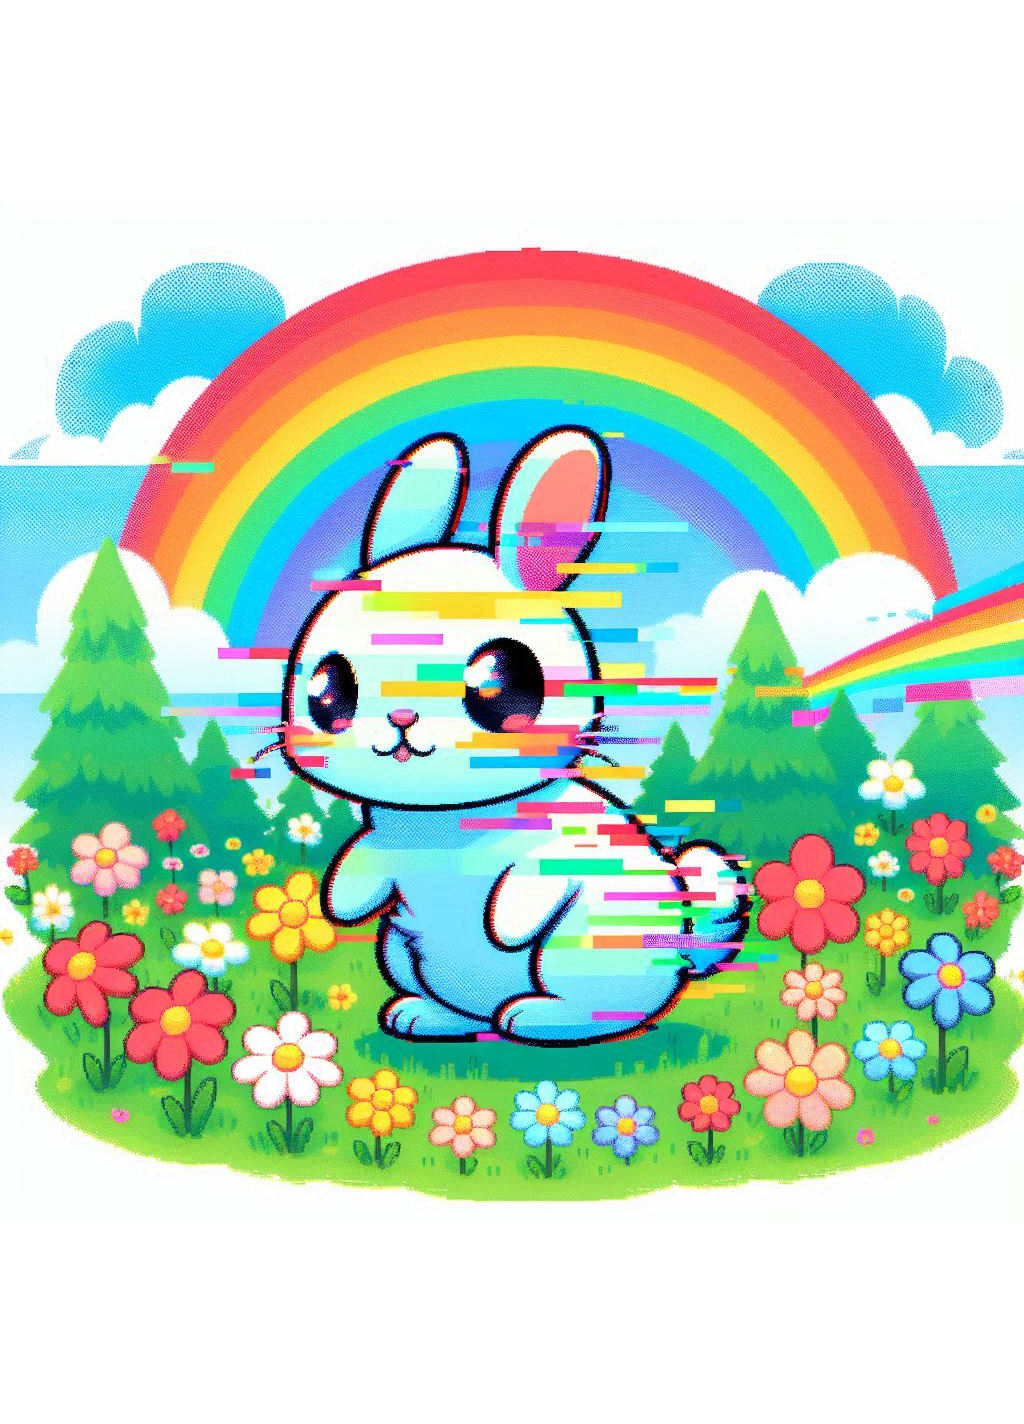
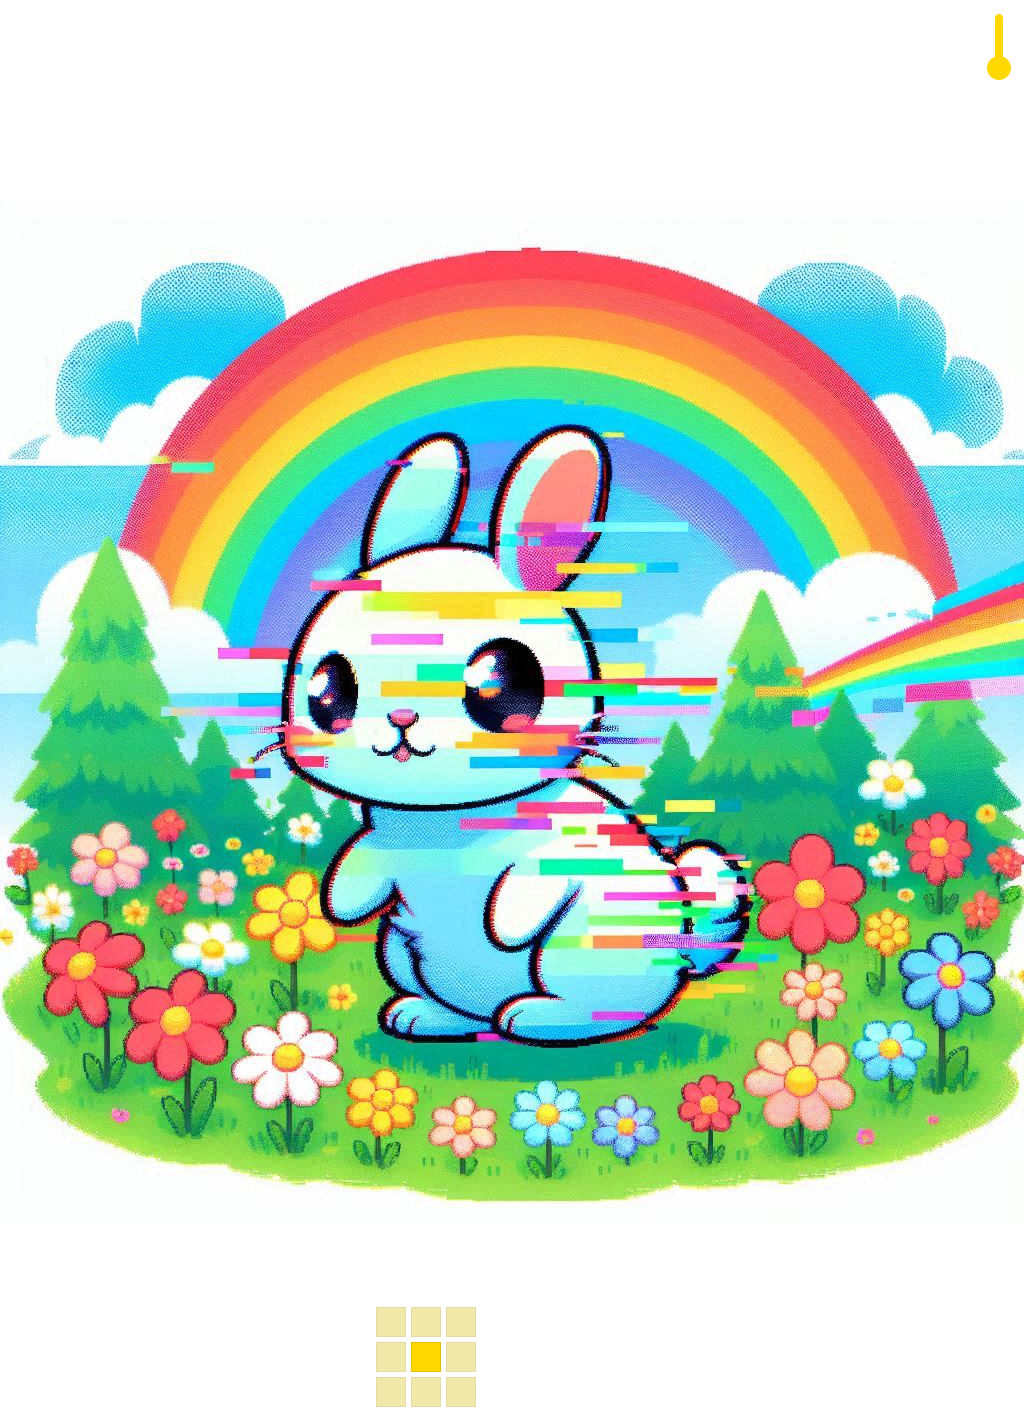
Adding bun4 and updating buns 0/1 with secret

Changed region(s): [[0.3438, 0.8961, 0.4688, 0.9888], [0.9688, 0.0, 1.0, 0.0618]]

diff --git a/golden_path/validGoldenPaths.js b/golden_path/validGoldenPaths.js
@@ -125,7 +125,7 @@ module.exports = [
         id: '????',
         path: [UP, UP_LEFT, LEFT],
         action: (gpm) => {
-            gpm.simplePuzzleManager.initiatePuzzle(puzzleEnum.BUN_0);
+            gpm.simplePuzzleManager.initiatePuzzle(puzzleEnum.BUN_1);
         },
     },
     {
@@ -144,11 +144,11 @@ module.exports = [
     /** 
      * All valid Bunny Paths
      * 
-     * Note that Bunny #1 is created from the loading bar of WitnessManager, not GPM
-     * Note that Bunny #2 is created from the SPM by clicking on the bunny in the fox maze
+     * Note that Bunny #0 is created from the loading bar of WitnessManager, not GPM
+     * Note that Bunny #1 is created from the SPM by clicking on the bunny in the fox maze
      */
     {
-        // Starts: Bunny #3
+        // Starts: Bunny #2
         // From: Fox Maze Flower Puzzle
         id: '????',
         path: [UP, RIGHT, DOWN, LEFT, DOWN, LEFT, DOWN, RIGHT, DOWN, RIGHT, UP, RIGHT, DOWN, LEFT, DOWN, LEFT, DOWN, RIGHT],
@@ -157,7 +157,7 @@ module.exports = [
         },
     },
     {
-        // Starts: Bunny #4
+        // Starts: Bunny #3
         // From: Color Page Removal Message
         id: '????',
         path: [
@@ -170,16 +170,16 @@ module.exports = [
         },
     },
     {
-        // Starts: Bunny #5
+        // Starts: Bunny #4
         // From: Hanoi Title Path
         id: '????',
         path: [RIGHT, RIGHT, RIGHT, LEFT, UP, RIGHT, DOWN, RIGHT, LEFT, UP, LEFT, UP],
         action: (gpm) => {
-            gpm.simplePuzzleManager.initiatePuzzle(puzzleEnum.BUN_0);
+            gpm.simplePuzzleManager.initiatePuzzle(puzzleEnum.BUN_4);
         },
     },
     {
-        // Starts: Bunny #6
+        // Starts: Bunny #5
         // From: Original Golden Path
         id: 'ef361c8dc6409be689ea3bd26d6943152f615823',
         path: [
@@ -289,7 +289,7 @@ module.exports = [
         },
     },
     {
-        // Starts: Bunny #7
+        // Starts: Bunny #6
         // From: Color Page Border Dots
         id: '????',
         path: [DOWN, LEFT, DOWN, DOWN, DOWN, LEFT, LEFT, UP, DOWN, LEFT, RIGHT, UP, UP, DOWN, UP, RIGHT, LEFT, DOWN, RIGHT, RIGHT, LEFT, DOWN, UP, DOWN, DOWN, DOWN, UP, LEFT, LEFT, RIGHT, UP, LEFT, LEFT, LEFT, LEFT, LEFT, LEFT, DOWN, DOWN, DOWN, RIGHT, LEFT, LEFT, DOWN, DOWN, RIGHT, UP],
@@ -298,7 +298,7 @@ module.exports = [
         },
     },
     {
-        // Starts: Bunny #8
+        // Starts: Bunny #7
         // From: Steganography
         id: '????',
         path: [
@@ -309,7 +309,7 @@ module.exports = [
         },
     },
     {
-        // Starts: Bunny #9
+        // Starts: Bunny #8
         // From: Collecting Music Note Twice
         id: '????',
         path: [

diff --git a/simple_puzzles/puzzleProps.js b/simple_puzzles/puzzleProps.js
@@ -60,8 +60,8 @@ const puzzleProps = {
         {
             path: 'simple_puzzles/puzzles/bunnies/b1/index.html',
             icon: 'puzzles/bunnies/icon.png',
-            w: 600,
-            h: 600,
+            w: 1000,
+            h: 1000,
             ignoreCheckpoint: true,
         },
     ],
@@ -97,9 +97,58 @@ const puzzleProps = {
             h: 1000,
         },
     ],
+    // puzzleEnum.BUN_1 is under FOX_MAZE
     [puzzleEnum.BUN_2]: [
         {
             path: 'simple_puzzles/puzzles/bunnies/b2/index.html',
+            icon: 'puzzles/bunnies/icon.png',
+            w: 1000,
+            h: 1000,
+        },
+    ],
+    [puzzleEnum.BUN_3]: [
+        {
+            path: 'simple_puzzles/puzzles/bunnies/b3/index.html',
+            icon: 'puzzles/bunnies/icon.png',
+            w: 1000,
+            h: 1000,
+        },
+    ],
+    [puzzleEnum.BUN_4]: [
+        {
+            path: 'simple_puzzles/puzzles/bunnies/b4/index.html',
+            icon: 'puzzles/bunnies/icon.png',
+            w: 1000,
+            h: 1000,
+        },
+    ],
+    [puzzleEnum.BUN_5]: [
+        {
+            path: 'simple_puzzles/puzzles/bunnies/b5/index.html',
+            icon: 'puzzles/bunnies/icon.png',
+            w: 1000,
+            h: 1000,
+        },
+    ],
+    [puzzleEnum.BUN_6]: [
+        {
+            path: 'simple_puzzles/puzzles/bunnies/b6/index.html',
+            icon: 'puzzles/bunnies/icon.png',
+            w: 1000,
+            h: 1000,
+        },
+    ],
+    [puzzleEnum.BUN_7]: [
+        {
+            path: 'simple_puzzles/puzzles/bunnies/b7/index.html',
+            icon: 'puzzles/bunnies/icon.png',
+            w: 1000,
+            h: 1000,
+        },
+    ],
+    [puzzleEnum.BUN_8]: [
+        {
+            path: 'simple_puzzles/puzzles/bunnies/b8/index.html',
             icon: 'puzzles/bunnies/icon.png',
             w: 1000,
             h: 1000,

diff --git a/simple_puzzles/puzzles/bunnies/b4/style.css b/simple_puzzles/puzzles/bunnies/b4/style.css
@@ -1,0 +1,34 @@
+body,
+html {
+    height: 100%;
+    margin: 0;
+    display: flex;
+    justify-content: center;
+    align-items: center;
+    background-color: #f0f0f0; /* Optional: Sets a light background color */
+    overflow-x: hidden;
+    overflow-y: hidden;
+}
+
+@font-face {
+  font-family: odinRounded;
+  src: url(../OdinRounded.otf);
+}
+
+#prize-text {
+  font-family: odinRounded;
+  font-weight: bold;
+  -webkit-text-stroke: 3px black; /* width and color */
+  font-size: 72px;
+  color: white;
+  position: fixed;
+  bottom: 50px;
+  margin: 0 auto;
+  width: 100%;
+  text-align: center;
+}
+
+/* img {
+    max-width: 100%;
+    height: auto;
+} */

diff --git a/simple_puzzles/puzzles/bunnies/b4/index.html b/simple_puzzles/puzzles/bunnies/b4/index.html
@@ -1,0 +1,14 @@
+<!DOCTYPE html>
+<html lang="en">
+    <head>
+        <meta charset="UTF-8" />
+        <meta name="viewport" content="width=device-width, initial-scale=1.0" />
+        <title>Bun</title>
+        <link rel="stylesheet" href="./style.css" />
+    </head>
+    <body>
+        <img src="bun.png" />
+        <div id="prize-text"></div>
+        <script src="./script.js"></script>
+    </body>
+</html>

diff --git a/simple_puzzles/puzzles/bunnies/b4/script.js b/simple_puzzles/puzzles/bunnies/b4/script.js
@@ -1,0 +1,7 @@
+const prizeTextMap = require('../prizeTextMap.json');
+
+const bun = 4;
+const prizeText = prizeTextMap[bun];
+
+const element = document.getElementById("prize-text");
+element.innerText = prizeText;
